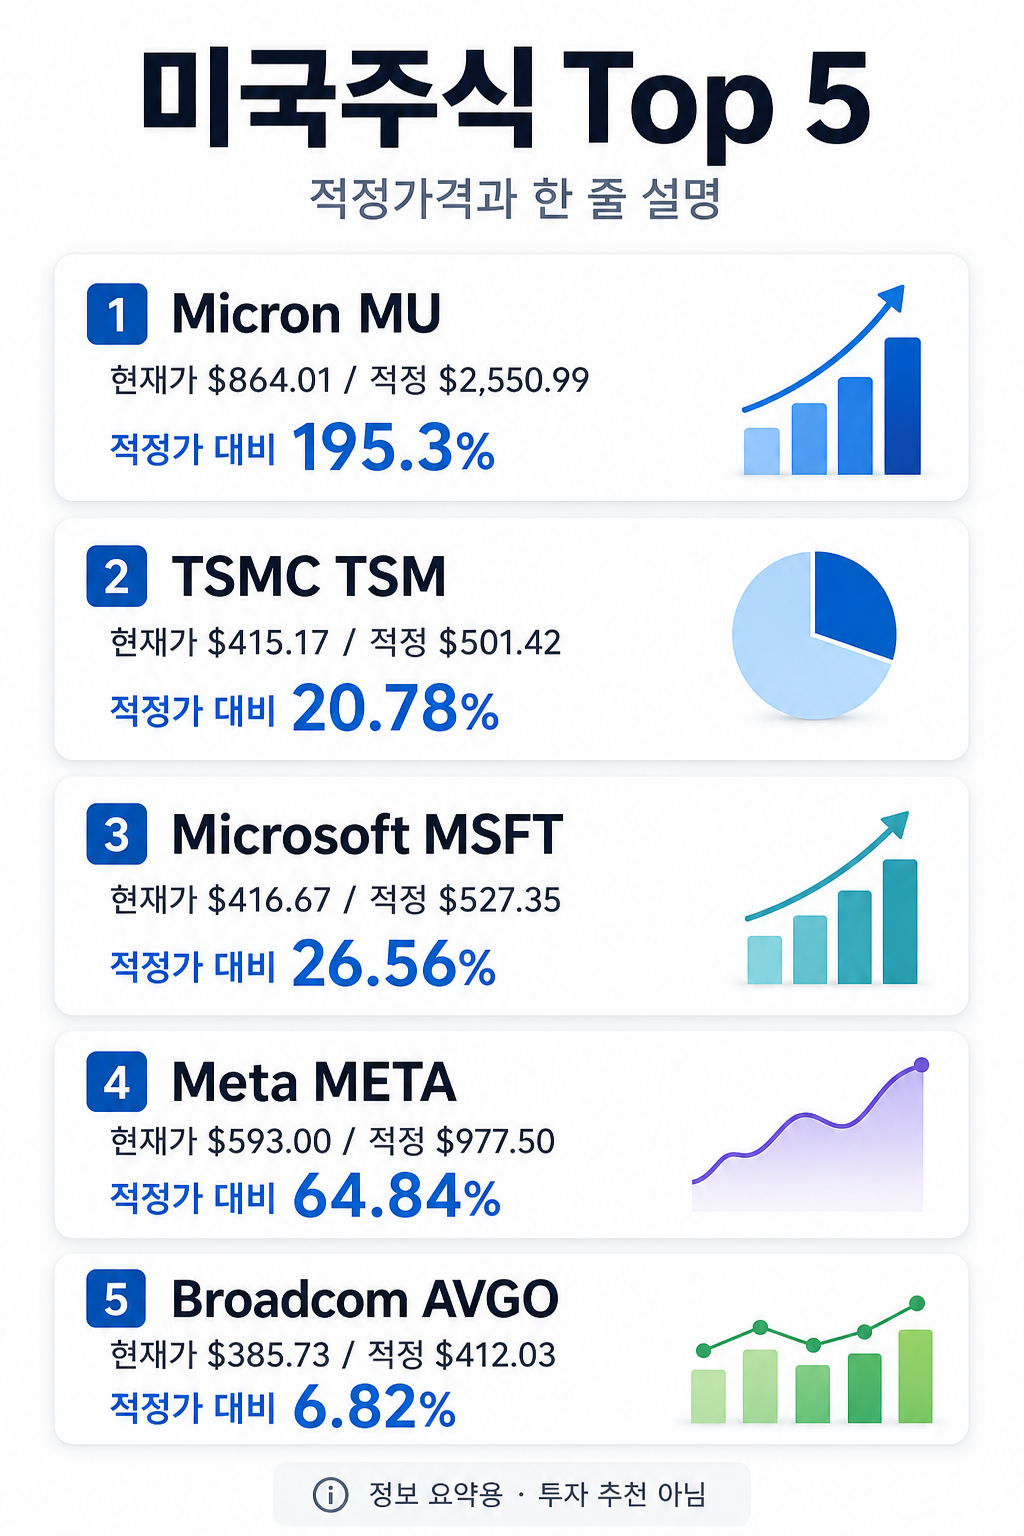
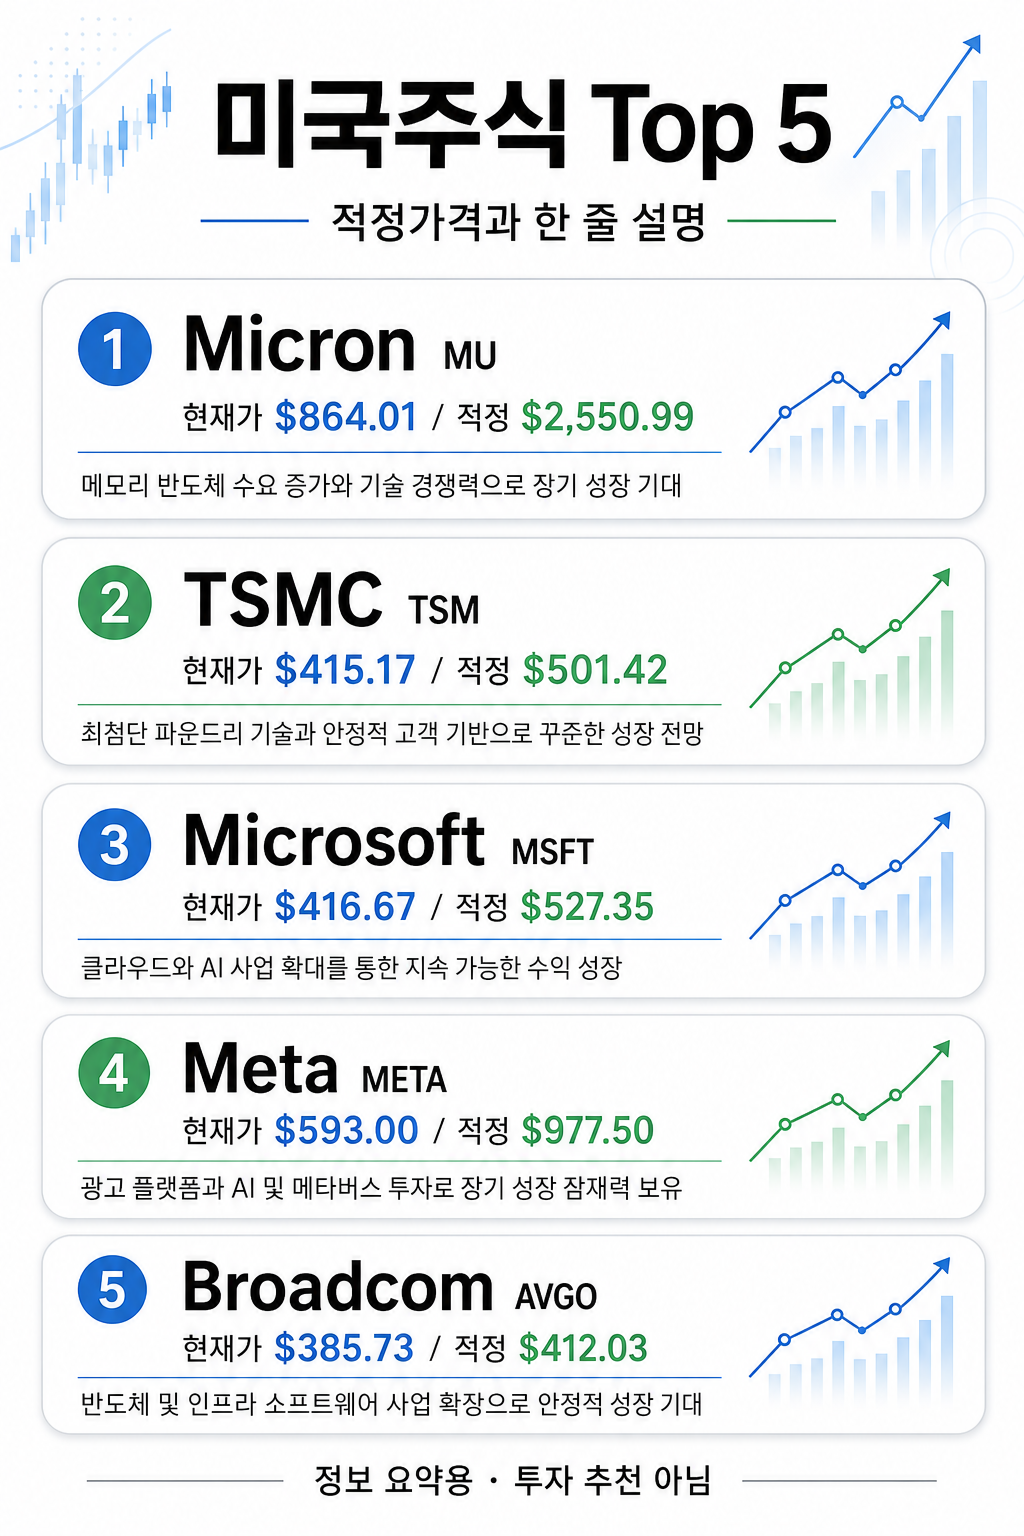
chore: publish hourly stock dashboard

diff --git a/public/index.html b/public/index.html
@@ -34,7 +34,7 @@ html{scroll-behavior:smooth;overflow-x: hidden} body{overflow-x: hidden;font-fam
 @media (max-width:760px){header{padding-top:30px} .top-rec-section,.news-section,.method-section{padding:16px!important;border-radius:18px!important} .ai-rec-grid,.valuation-grid,.youtuber-grid,.stock-rank-grid{grid-template-columns:1fr!important} .news-column h3{position:static} .ai-price-grid{grid-template-columns:1fr}}
 </style></head>
 <body>
-<header><h1>한국·미국 주식 한눈에 보기</h1><div class="subtitle">매시간 국내주식과 미국주식의 관심 종목, 출처 발언, 재무·차트 숫자, 최신 뉴스를 새로 정리합니다. / 생성: 2026-06-06 23:33</div><div class="kpis"><div class="kpi">수집 소스 23개</div><div class="kpi">소스 로그 1074개</div><div class="kpi">추천/관심 종목 48개</div><div class="kpi">유튜브 자막 180/313개</div><div class="kpi">화면 OCR 138개</div><div class="kpi">뉴스 746건</div></div></header>
+<header><h1>한국·미국 주식 한눈에 보기</h1><div class="subtitle">매시간 국내주식과 미국주식의 관심 종목, 출처 발언, 재무·차트 숫자, 최신 뉴스를 새로 정리합니다. / 생성: 2026-06-07 00:30</div><div class="kpis"><div class="kpi">수집 소스 23개</div><div class="kpi">소스 로그 1077개</div><div class="kpi">추천/관심 종목 48개</div><div class="kpi">유튜브 자막 180/313개</div><div class="kpi">화면 OCR 138개</div><div class="kpi">뉴스 749건</div></div></header>
 <nav class="tabs"><a href="#top-recommendations">추천종목</a><a href="#news">뉴스</a><a href="#macro-context">큰틀 참고</a><a href="#method">자료 확인</a><a href="#domestic">국내</a><a href="#global">미국</a></nav>
 <main><div class="notice">이 페이지는 여러 출처에서 나온 말과 공개 재무 데이터를 모아 보여주는 참고용 화면입니다. 점수와 가격대는 자동 계산한 기준선일 뿐, 투자 조언이나 수익 보장이 아닙니다. 실제 매매 전에는 현재가, 공시, 실적, 수급을 다시 확인해 주세요.</div><section id="top-recommendations" class="top-rec-section"><div class="top-rec-head"><span>먼저 볼 것</span><h2>AI 추천종목 Top5</h2><p>국내와 미국을 나눠서 보여줍니다. 많이 언급된 종목, 재무 숫자, 차트 위치를 함께 본 관심 목록입니다. 매수 지시는 아닙니다.</p></div><section class="imagegen2-section" aria-label="이미지젠2 종목 설명 카드뉴스">
       <div class="imagegen2-head"><span>ImageGen2 카드뉴스</span><h2>그림으로 먼저 보는 국내·미국 Top5</h2><p>종목 설명을 한 장씩 빠르게 훑어보는 카드뉴스입니다. 세부 수치와 원문 근거는 아래 추천 카드에서 다시 확인해 주세요.</p></div>
@@ -259,7 +259,7 @@ html{scroll-behavior:smooth;overflow-x: hidden} body{overflow-x: hidden;font-fam
               <div class="news-original">원문: Meta Stock Is Lagging Big Tech Peers. Here&#x27;s What Could Return Its &#x27;AI Winner&#x27; View. - Investor&#x27;s Business Daily</div>
               <p>메타 주식은 거대 기술 동료들보다 뒤처져 있습니다. &#x27;AI 승자&#x27; 관점을 반환할 수 있는 것은 다음과 같습니다.    투자자 비즈니스 데일리</p>
               <div class="badges news-tickers"><span class="badge ticker">META</span></div>
-            </article></div></div><details class="news-md-card"><summary>Markdown 뉴스 인제스트 보기</summary><pre># 주식 뉴스 인제스트 (2026-06-06T23:06)
+            </article></div></div><details class="news-md-card"><summary>Markdown 뉴스 인제스트 보기</summary><pre># 주식 뉴스 인제스트 (2026-06-07T00:05)
 
 이 파일은 1시간 자동 갱신이 읽기 쉽게 최신 RSS/Google News 헤드라인을 한국어 중심 Markdown으로 정리한 자료입니다.
 투자 조언이 아니라 뉴스/촉매/리스크 확인용 출처 목록입니다.
@@ -559,17 +559,6 @@ html{scroll-behavior:smooth;overflow-x: hidden} body{overflow-x: hidden;font-fam
       <div class="valuation-pills"><b>주의</b><span class="risk-pill">ROE 낮음 4.89%</span></div>
       <div class="valuation-links"><a href="https://finance.naver.com/item/main.naver?code=003550" target="_blank" rel="noreferrer">재무출처</a><a href="https://query1.finance.yahoo.com/v8/finance/chart/003550.KS" target="_blank" rel="noreferrer">재무출처</a></div>
     </article>
-    <article class="valuation-card value-risk">
-      <div class="valuation-head"><div><b>SK하이닉스</b><span>000660</span></div><span class="badge rec">고평가 주의</span></div>
-      <div class="valuation-price"><span><small>지금 가격</small><b>2,070,000원</b></span><span><small>계산상 적정가격</small><b>1,393,912원</b></span><span><small>알림 걸어둘 가격</small><b>1,143,008원</b></span></div>
-      <p class="plain-price-hint"><b>쉽게 말하면:</b> 지금 가격은 계산된 적정가격보다 높습니다. 추격하면 부담이 커질 수 있습니다. 현재가와 계산가격 차이는 -32.7%입니다.</p>
-      <p><b>읽는 법:</b> 현재가가 보수적으로 계산한 적정가격를 의미 있게 웃돕니다.<br><b>다음에 볼 것:</b> 1,143,008 KRW 이하가 아니면 보수적 접근</p>
-      <div class="valuation-metrics"><span>PER 6.40</span><span>Fwd PER 확인 불가</span><span>PBR 1.82</span><span>ROE 31.06%</span><span>순마진 확인 불가</span><span>차트 상승 추세</span><span>20일 29.29%</span></div>
-      <div class="valuation-basis">계산 근거: EPS/PER 불일치 91.60% → PER 역산 제외 / EPS 27,182 → 기준 PER 17.00배 / PBR 1.82배 → 기준 PBR 2.50배</div>
-      <div class="valuation-pills"><b>강점</b><span class="good">출처 언급 39회</span><span class="good">ROE 31.06%</span><span class="good">PER가 기준보다 낮음</span></div>
-      <div class="valuation-pills"><b>주의</b><span class="empty">주요 리스크 미표시</span></div>
-      <div class="valuation-links"><a href="https://finance.naver.com/item/main.naver?code=000660" target="_blank" rel="noreferrer">재무출처</a><a href="https://query1.finance.yahoo.com/v8/finance/chart/000660.KS" target="_blank" rel="noreferrer">재무출처</a></div>
-    </article>
     <article class="valuation-card value-watch">
       <div class="valuation-head"><div><b>HMM</b><span>011200</span></div><span class="badge rec">관심권</span></div>
       <div class="valuation-price"><span><small>지금 가격</small><b>19,450원</b></span><span><small>계산상 적정가격</small><b>23,024원</b></span><span><small>알림 걸어둘 가격</small><b>18,880원</b></span></div>
@@ -580,6 +569,17 @@ html{scroll-behavior:smooth;overflow-x: hidden} body{overflow-x: hidden;font-fam
       <div class="valuation-pills"><b>강점</b><span class="good">PBR 0.63배</span></div>
       <div class="valuation-pills"><b>주의</b><span class="risk-pill">ROE 낮음 4.59%</span></div>
       <div class="valuation-links"><a href="https://finance.naver.com/item/main.naver?code=011200" target="_blank" rel="noreferrer">재무출처</a><a href="https://query1.finance.yahoo.com/v8/finance/chart/011200.KS" target="_blank" rel="noreferrer">재무출처</a></div>
+    </article>
+    <article class="valuation-card value-risk">
+      <div class="valuation-head"><div><b>SK하이닉스</b><span>000660</span></div><span class="badge rec">고평가 주의</span></div>
+      <div class="valuation-price"><span><small>지금 가격</small><b>2,070,000원</b></span><span><small>계산상 적정가격</small><b>1,393,912원</b></span><span><small>알림 걸어둘 가격</small><b>1,143,008원</b></span></div>
+      <p class="plain-price-hint"><b>쉽게 말하면:</b> 지금 가격은 계산된 적정가격보다 높습니다. 추격하면 부담이 커질 수 있습니다. 현재가와 계산가격 차이는 -32.7%입니다.</p>
+      <p><b>읽는 법:</b> 현재가가 보수적으로 계산한 적정가격를 의미 있게 웃돕니다.<br><b>다음에 볼 것:</b> 1,143,008 KRW 이하가 아니면 보수적 접근</p>
+      <div class="valuation-metrics"><span>PER 확인 불가</span><span>Fwd PER 확인 불가</span><span>PBR 1.82</span><span>ROE 31.06%</span><span>순마진 확인 불가</span><span>차트 상승 추세</span><span>20일 29.29%</span></div>
+      <div class="valuation-basis">계산 근거: EPS 27,182 → 기준 PER 17.00배 / PBR 1.82배 → 기준 PBR 2.50배</div>
+      <div class="valuation-pills"><b>강점</b><span class="good">출처 언급 39회</span><span class="good">ROE 31.06%</span></div>
+      <div class="valuation-pills"><b>주의</b><span class="empty">주요 리스크 미표시</span></div>
+      <div class="valuation-links"><a href="https://finance.naver.com/item/main.naver?code=000660" target="_blank" rel="noreferrer">재무출처</a><a href="https://query1.finance.yahoo.com/v8/finance/chart/000660.KS" target="_blank" rel="noreferrer">재무출처</a></div>
     </article>
     <article class="valuation-card value-risk">
       <div class="valuation-head"><div><b>삼성물산</b><span>028260</span></div><span class="badge rec">고평가 주의</span></div>

diff --git a/data/imagegen2/cardnews_source.md b/data/imagegen2/cardnews_source.md
@@ -1,6 +1,6 @@
 # ImageGen2 stock cardnews source
 
-Generated: 2026-06-06T23:26
+Generated: 2026-06-07T00:27
 
 ## 한국주식
 1. 현대차 005380 — 현재가 700,000원, 적정 1,179,025원

diff --git a/data/news_ingest/latest_news.md b/data/news_ingest/latest_news.md
@@ -1,4 +1,4 @@
-# 주식 뉴스 인제스트 (2026-06-06T23:06)
+# 주식 뉴스 인제스트 (2026-06-07T00:05)
 
 이 파일은 1시간 크론이 읽기 쉽게 최신 RSS/Google News 헤드라인을 한국어 중심 Markdown으로 정규화한 자료입니다.
 투자 조언이 아니라 뉴스/촉매/리스크 확인용 출처 목록입니다.